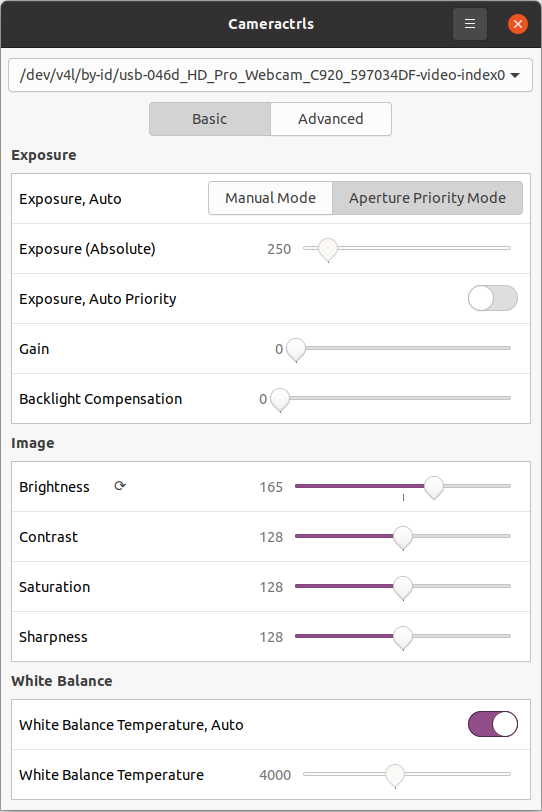
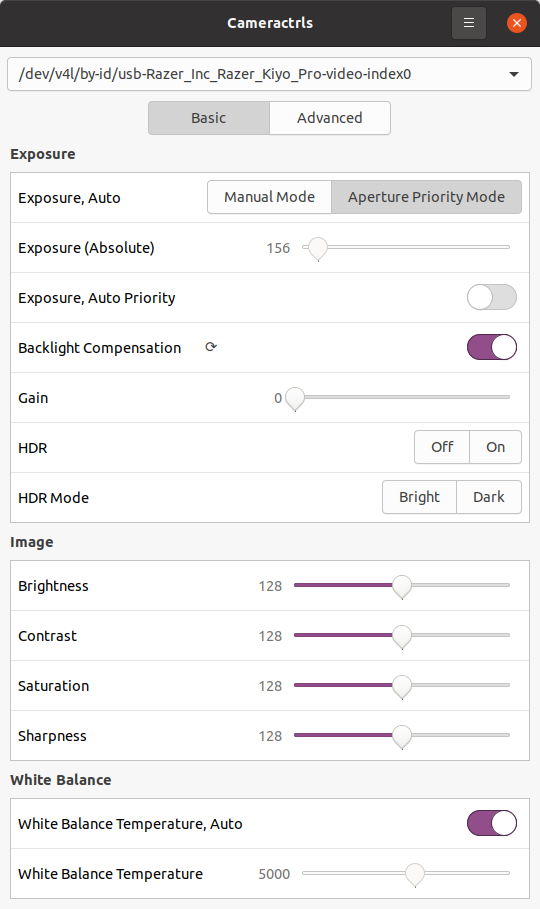
v0.2.3

diff --git a/cameractrls.py b/cameractrls.py
@@ -4,7 +4,7 @@ import ctypes, logging, os.path, getopt, sys
 from fcntl import ioctl
 
 ghurl = 'https://github.com/soyersoyer/cameractrls'
-version = 'v0.2.2'
+version = 'v0.2.3'
 
 # ioctl
 

diff --git a/CHANGELOG.md b/CHANGELOG.md
@@ -1,5 +1,17 @@
 # Changelog
 
+## [0.2.3] - 2022-06-11
+
+### Added
+- Treat bool like integer V4l2 controls as bool
+
+### Fixed
+- String to bool converting in the cameractrls CLI
+
+### Changed
+- Added Hue to Basic.Image
+- Reorder Gain and Backligh Compensation in Basic.Exposure
+
 ## [0.2.2] - 2022-06-10
 
 ### Added
